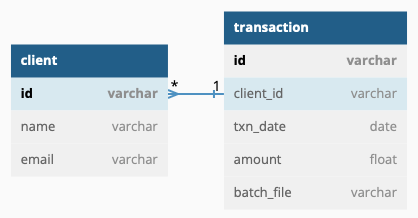
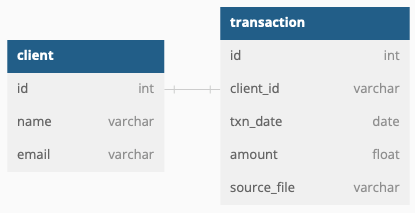
Readme updated

diff --git a/README.md b/README.md
@@ -1,9 +1,8 @@
-# stori_challenge
-Challenge for Stori Software Engineer/Tech Lead
+# stori_tech_challenge
+Tech challenge for Stori Software Engineer/Tech Lead
 
 Here´s the original specification for the challenge:
-
-
+```
 Thanks for your interest in joining Stori. At this stage, we ask you to solve the following challenge. Best of luck! 
 
 For this challenge you must create a system that processes a file from a mounted directory. The file will contain a list of debit and credit transactions on an account. Your function should process the file and send summary information to a user in the form of an email. 
@@ -32,7 +31,7 @@ Your project must meet these requirements:
 1. The summary email contains information on the total balance in the account, the number of transactions grouped by month, and the average credit and average debit amounts grouped by month. Using the transactions in the image above as an example, the summary info would be Total balance is 39.74 Average debit amount: -15.38 Number of transactions in July: 2 Average credit amount: 35.25 Number of transactions in August: 2 
 2. Include the file you create in CSV format. 
 3. Code is versioned in a git repository. The README.md file should describe the code interface and instructions on how to execute the code. 
-
+```
 # Proposal solution
 
 ## Data Base
@@ -47,15 +46,15 @@ I propose to use following Data-Model:
 ## Client 
 |column   |type    |description|
 |---------|--------|-----------|
-|id       |varchar |Unique ID for every client (e.g. xxxx-xxxx-xxxx)|
+|id       |varchar |Unique ID for every client (e.g. 1)|
 |name     |varchar |Full name of the client (e.g. Marco Monroy)|
-|email    |varchar |Email address of the client. Will be used as destination Summary email (e.g. ronmoy007@hotmail.com)|
+|email    |varchar |Email address of the client. Will be used CC destination in Summary email (e.g. ronmoy007@hotmail.com)|
 
 ## Transaction 
 |column    |type    |description|
 |----------|--------|-----------|
-|id        |varchar |Unique ID for every transaction (e.g. xxxx-xxxx-xxxx)|
-|clinet_id |varchar |Foreign key into client table|
+|id        |varchar |Unique ID for every transaction (e.g. 2)|
+|clinet_id |varchar |Foreign key into client table (e.g. 1|
 |txn       |txn_date|Date of transaction. (e.g. 2022-12-24)|
 |amout     |float   |Number that represent if its a credit or debit operation (based on the sign of the number. Positive means credit and negative means debit|
 |batch_file|varchar |Name of the file processed containing transactions|
@@ -63,60 +62,122 @@ I propose to use following Data-Model:
 
 The proposal solution implies 5 changes to the original challenge:
 
-1. Create an additional table to store clients
+1. Create an additional table to store clients.
 2. The layout of input file needs to be changed to add the user id.
 3. Id column for transaction will be removed from source file and it will be calculated on execution time.
-4. The transaction date must include year. (Input file format is: MM/dd/yyyy, but database is yyyy-MM-dd)
+4. The transaction date must include year.
+5. Plus sign can be ommited for positive numbers
 
 So the final layout input will look like:
 
 |client_id   |Date    |Transaction|
 |------------|---------|-----------|
-|           1|7/15/2022|      +60.5|
+|           1|7/15/2022|       60.5|
 |           1|7/28/2022|      -10.3|
 |           2|8/2/2022 |     -20.46|
-|           2|8/13/2021|        +10|
+|           2|8/13/2021|         10|
 
-**Note:** Before process any transaction file, client's table must exist (A mechanism to add clients will be needed)
+**Note:** Before process any transaction file, client's table must exists with data (a script to populate client table is provided)
 
 ## Overall architecture
 
+Insted of just reading the transactions file from a directory or S3 bucket, a more frieldy solution was developed to allow upload the transaction file from a computer.
+
+This solution was designed in such way that is easy to develop and test in local environment and then push the code into a github repo which is already configurated with a CI/CD mechanism to deploy the code into AWS cloud.
+
+Architecture in AWS contains:
+- RDS-Postgresql (*database*)
+- Lambda function to read the data (*backend*)
+- Lambda function to process the file with transactions (*backend*)
+- Lambda function to send email with info of a client (*backend*)
+- Api-gateway to handle http petitions and call corresponding lambda (*backend*)
+- S3 bucket to store static React app with UI to upload transaction file and see summary online (*frontend*)
+- CloudFront for distribution of the web content (*frontend*)
+
+The following diagram ilustrates the cloud architecture:
+
 <p align="center">
-  <img src="diagrams/architechture.png" width="750" title="hover text">
+  <img src="diagrams/architecture_aws.png" width="750" title="hover text">
 </p>
 
-In this delierable all services are stored in one single repo, but they can be easily splited into 4 different repos (micro-services):
-* 1 repository for frontend
-* 3 repositoies for backend (one by lambda)
-* 1 repo for db model
+For local develop and testing the following architecture is used:
+ - Local Postgres (*database*)
+ - Python file with the logic for Lambda to read the data (*backend*)
+ - Python file with the logic for Lambda to process the file (*backend*)
+ - Python file with the logic for Lambda to send email (*backend*)
+ - Flask API to simulate AWS-API-gateway
+ - React app with UI to upload transaction file and see summary
 
-# Run solution locally
+All componentes of the backend run in a Docker contanier (backend-container)
+The React app runs in a Docker container (frontend-container)
 
-0. **Create conda environment and activate it**
+The following diagram ilustrates the local architecture:
+
+<p align="center">
+  <img src="diagrams/architecture_local.png" width="750" title="hover text">
+</p>
+
+The design of architecture not only was designed to offer a friendly UI, but to be able to set up a CI/CD mechanism in a easy way.
+
+For every push into main branch, github actions:
+ - Zips the code for every lambda 
+ - Uploads the zip file into aws to update aws lambdas (*backend*)
+ - Generates a build for react app 
+ - Uploads the build into S3 bucket (*frontend*)
+ - Refreshes CloudFront (*frontend*)
+
+Since the solution is a monorepo, even if there's a change only in the code of a lambda function, all solution is deployded into production. The design of the solution and repo is made in such way that it could be easily split frontend and backend (or even split lambdas) into different repos.
+
+# Considerations aboutn email sending in local
+This solutions uses SMTP protocol to send emails. Not all email providers allow to send emails programatically. To be able to test this functionality, it's a pre-requisite to have an outlook or hotmail acount. (For testing purposes, the sender and recipient will be the same person, and the client's email will be added as CC).
+
+# Considerations aboutn email sending in AWS
+Sending emails in AWS is not so straighforward, because by default AWS blocks email ports (25, 587, ...). AWS enourages users to use AWS-SES service. But even using that service, there are some restrictions. At the moment AWS account is only allowed to sendmails to authorized emails (so my personal account will recieve all mails triggered in AWS).
+
+# Steps to test the solution locally
 
 1. **Install Postgresql** (I used Homebrew for Mac: https://wiki.postgresql.org/wiki/Homebrew)
 
 2. **Start postgresql** 
 
+(If you are using mac-brew, the following command is available)
+
 `brew services start postgresql`
 
 3. **Create DB**
 
-`createdb -h localhost -p 5432 -U postgres stori_challenge_db`
+`PGPASSWORD=set_your_password_here psql -h localhost -U postgres -a -f 03_database/create_database.sql`
 
 4. **Run scripts (build tables and populate client table)**
 
-`psql -h localhost -U postgres -d stori_challenge_db -a -f 03_database/create_tables.sql`
+`PGPASSWORD=set_your_password_here psql -h localhost -U postgres -d stori_challenge_db -a -f 03_database/create_tables.sql`
 
-`psql -h localhost -U postgres -d stori_challenge_db -a -f 03_database/load_users.sql`
+`PGPASSWORD=set_your_password_here psql -h localhost -U postgres -d stori_challenge_db -a -f 03_database/load_users.sql`
 
 5. **Install Docker** (I used MAC version: https://docs.docker.com/desktop/install/mac-install/)
 
-6. **Optional**
+6. **IMPORTANT**
 
 If the solution is running on top of MAC-M1 chip the following command is required to change the docker default platform:
 
 `export DOCKER_DEFAULT_PLATFORM=linux/amd64`
+
+7. **Update credentials for DB and email**
+
+There are env variables that must be updated to allow backend to connect into local DB and authenticate into SMTP server.
+
+Open the file: 
+
+`02_backend/Dockerfile`
+
+And update lines from 21 to 24 with the credentials for local DB
+and 28 to 30 with the credentials for local DB and the outlook to send emails.
+
+<p align="center">
+  <img src="images/update_credentials.png" width="750" title="hover text">
+</p>
+
+(Line 23 must be **"host.docker.internal"** for MAC, otherwise it could be **"localhost"**)
 
 7. **Create Docker container (Backend-API)**
 
@@ -126,10 +187,106 @@ If the solution is running on top of MAC-M1 chip the following command is requir
 
 `docker run -it --rm -p 8000:5000 stori-api:latest`
 
-9. **Create Docker container (Frontend)**
+After running the previous command, the api will be running and waiting for http requests:
+
+<p align="center">
+  <img src="images/backed_running.png" width="750" title="hover text">
+</p>
+
+(The terminal for backend must be active for testing)
+
+9. **Open a new terminal (to build and run frontend UI)**
+
+10. **Create Docker container (Frontend)**
 
 `docker build -f 01_frontend/Dockerfile -t stori-frontend .`
 
-10. **Run Docker container (Frontend)**
+11. **Run Docker container (Frontend)**
 
 `docker run -it --rm -p 3000:3000 stori-frontend:latest`
+
+After running the previous command, the react app will be running:
+
+<p align="center">
+  <img src="images/frontend_running.png" width="750" title="hover text">
+</p>
+
+(The terminal for frontend must be active for testing)
+
+12. **Check UI**
+
+Open an internet browser and enter into following url:
+
+`http://localhost:3000`
+
+<p align="center">
+  <img src="images/screen1.png" width="750" title="hover text">
+</p>
+
+12. **Upload csv file with transactions**
+
+ - Clic **"Choose File"** button
+ - Pick "txns.csv" file 
+ - Clic **""Upload""** button
+
+ After loading the file, the tables will be updated by the app:
+
+<p align="center">
+  <img src="images/screen3.png" width="750" title="hover text">
+</p>
+
+(In this view the info for all clients is displayed)
+
+13. **Send email**
+
+  In the section **"Summary of transactions"** click **"Send mail"** on any client (the first client contains the same data provided in the challenge example). After a few seconds, an email will be delivered into the email account provided in Step 7. The client email is included in CC email section:
+
+  <p align="center">
+  <img src="images/screen4.png" width="750" title="hover text">
+</p>
+
+  (Emails contains data only for a single client.)
+
+14. **More tests**
+
+Is possible to repeat Steps 12 and 13 to add more data and see how data change. It's also possible to edit the content of **"txns.csv"** file (however the app does not validate number of columns or datatypes of file, so avoid changes on the data structure of the file).
+
+15. **Sopt containers**
+
+Once validations are done, is possible to stop both Docker containers pressing in each terminal:
+
+`Ctrl+C`
+
+16. **Code changes**
+
+After any modification in the code will be necesary to run again:
+- Step 7 and 8 for changes in backend
+- Step 9 and 10 for changes in frontend
+
+# Steps to test the solution in AWS cloud
+
+1. **Open url in broser**
+
+`https://d22r1r8etu5oih.cloudfront.net/`
+
+
+
+DB_URL: database-1.cqnvbhfjhcz3.us-east-1.rds.amazonaws.com
+DB_DBNAME: stori_challenge_db
+DB_USERNAME: postgres
+DB_PASSWD: stori_challenge
+
+PGPASSWORD=stori_challenge psql -h database-1.cqnvbhfjhcz3.us-east-1.rds.amazonaws.com -U postgres -d stori_challenge_db -a -f 03_database/create_database.sql
+PGPASSWORD=stori_challenge psql -h database-1.cqnvbhfjhcz3.us-east-1.rds.amazonaws.com -U postgres -d stori_challenge_db -a -f 03_database/create_tables.sql
+PGPASSWORD=stori_challenge psql -h database-1.cqnvbhfjhcz3.us-east-1.rds.amazonaws.com -U postgres -d stori_challenge_db -a -f 03_database/load_users.sql
+
+PGPASSWORD=1234 psql -h localhost -U postgres -a -f 03_database/create_database.sql
+
+
+brew services start postgresql
+brew services stop postgresql
+
+
+PGPASSWORD=1234 psql -h localhost -U postgres -a -f 03_database/create_database.sql
+PGPASSWORD=1234 psql -h localhost -U postgres -d stori_challenge_db -a -f 03_database/create_tables.sql
+PGPASSWORD=1234 psql -h localhost -U postgres -d stori_challenge_db -a -f 03_database/load_users.sql
